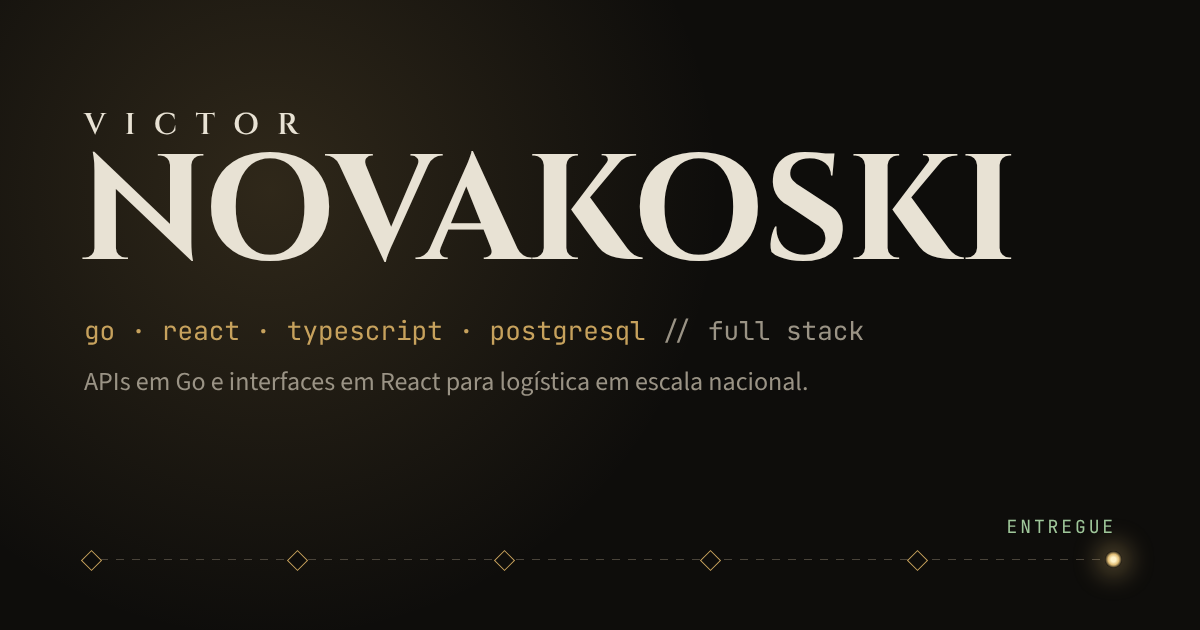
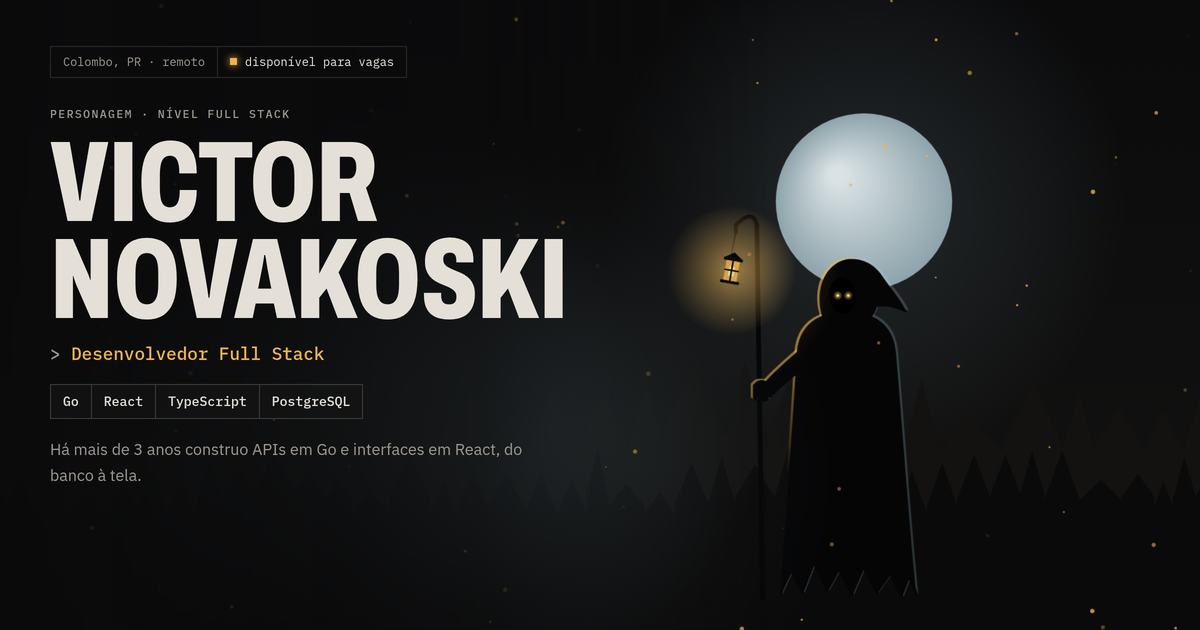
fix: imagem de compartilhamento com a tela de título nova
O og.png mostrava o caçador antigo, com o chapéu e a lanterna na corda. A nova
é um print da tela de título HUD da Lanterna (1200x630, sem cabeçalho nem
botões). A URL ganha ?v=2 para as redes não reaproveitarem a prévia em cache.

diff --git a/vite.config.ts b/vite.config.ts
@@ -14,8 +14,8 @@ function absoluteMeta(): Plugin {
       return [
         { tag: 'link', attrs: { rel: 'canonical', href: `${siteUrl}/` }, injectTo: 'head' },
         { tag: 'meta', attrs: { property: 'og:url', content: `${siteUrl}/` }, injectTo: 'head' },
-        { tag: 'meta', attrs: { property: 'og:image', content: `${siteUrl}/og.png` }, injectTo: 'head' },
-        { tag: 'meta', attrs: { name: 'twitter:image', content: `${siteUrl}/og.png` }, injectTo: 'head' },
+        { tag: 'meta', attrs: { property: 'og:image', content: `${siteUrl}/og.png?v=2` }, injectTo: 'head' },
+        { tag: 'meta', attrs: { name: 'twitter:image', content: `${siteUrl}/og.png?v=2` }, injectTo: 'head' },
       ]
     },
   }
